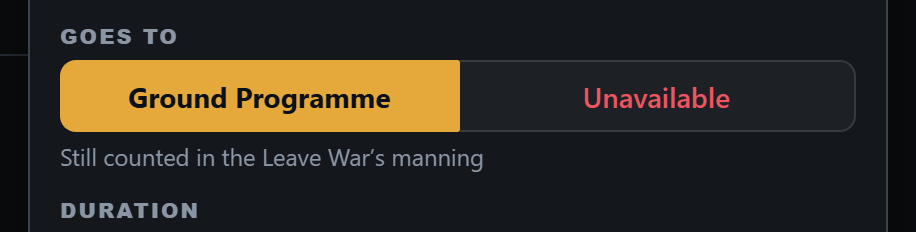
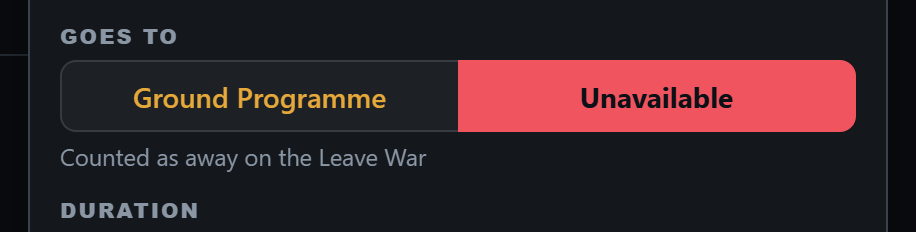
Handoff: the M3 FULL check done; his look next (the look page: Q1, Q4 with pictures); the sheet names the questions per D994 and the second read's fixes carried by tests; the file map

Changed region(s): [[0.0611, 0.2414, 0.9476, 0.5733], [0.0611, 0.6336, 0.5502, 0.7241]]

diff --git a/HANDOFF.md b/HANDOFF.md
@@ -21,18 +21,18 @@ the later merge keeps both (D78).
 
 ## Now
 <!-- now:claude/lw-m3-placing-leave -->
-### `claude/lw-m3-placing-leave` — the M3 build of 25 Oct 26 (UNA → Other, Attach, the decided buttons, the bubble at the foot, the joined bar, his D1377–D1380) and its FULL check, nearly done — written 25 Oct 26 late evening — verify before use
-- **Where it started:** his opening line of 25 Oct 26 15:30 — build "Unfinished" (1)–(5) of the block before, tests first, one FULL bug check; then his D1377 (an Attach keeps counting him out, not a rename) and D1378–D1380 (Attach first in the Leave War's ⋯, admin and member, on the Duration, its To left to the Inputs page). The chat compacted once (17:10); its early detail is in the commits.
-- **Shipped (on the branch, PR 569 open when written; 568 open too and goes first, D78):** all five items and [LW-ATTACH-BUTTON]; the FULL check's evidence sheet `raptor-port/docs/handpass/2026-10-25-lw-m3-build.md` (tier, sizing lines, the designer's gaps G1–G10 disposed, the walk's finds and dispositions, break tests); the designer `raptor-port/docs/handpass/parts/lw-m3-build/designer.md`; the walk W1 / W2 (`parts/lw-m3-build/w1.md`, `w2.md`, pictures `raptor-port/docs/img/handpass/2026-10-25-lw-m3-build/w1`, `w2`) and every fault it found fixed red-first (the joined bar and D1370's outline never painted — rules after `matrix.css`'s `#page-leavewar` wrapper, now named with the page, e2e "a leave over three days"; Show › reads the Manning rows; the bubble goes at a tap; the war names an Attach's To); break tests 25/25 (`raptor-port/scripts/handpass/breaks/2026-10-25-lw-m3-build.json`); the re-walk (`rewalk-w1`, `rewalk-read`); the fresh blind Opus read (`parts/lw-m3-build/read-opus.md`) F1–F8 and its narrow read (`read-fixes.md`) R1–R3 all fixed red-first (`raptor-port/src/leavewar/m3read.test.tsx`, `bidbubble.test.tsx`, `ui/latepub.test.tsx`) and the bubble's fixes re-walked. GitHub's full run green on `d3e944d`; the last pushes are records and pictures only.
-- **Unfinished, in order:** (1) THE READ'S Q2, A GAP OF THIS BUILD: a man on a course (under Unavailable by itself, D1372) — or any commitment moved "→ Unavail" — shows in Edit Schedule's crew list in full colour as free (it was faded "already tasked" by its Ground Programme row); an overseas duty and an Attach are struck (`raptor-port/src/engine/inputs.ts` `isAway`, line ~544). The agent's reading of D1372 ("so the schedule and the Leave War agree"): a commitment under Unavailable, not cancelled or information only, is away for its hours as an overseas duty is. Widen `isAway` red-first under the rules-engine doctrine; it also feeds the ALL AVAIL crowd (`raptor-port/src/leavewar/sync.ts:1182` — OIL, so FULL-tier care) and the crew list (`engine/avail.ts` 90/507/520/533/547/614/648, `ui/palette-html.ts` 27/33/91); `node reference/tfin.js` must stay 728/0; walk the crew list with pictures; tell him the reading. (2) The read's other questions Q1, Q3–Q11 (`read-opus.md` §Questions): Q1 (a rejected course still counts him out) goes to him with pictures; the rest the agent's — each fixed or written with its reason into the sheet. (3) The sheet's `Walk:` line, the ledger row in `raptor-port/docs/walk-ledger.md`, and `raptor-port/docs/ui-contracts.md` for F1 (the Ground panel files under Unavailable) and R1/F5 (the bubble lifts only on a phone). (4) The preview link and pictures for his look, with the questions [LW-TWO-BOX-LETTERS] and [SCHED-UNAV-PENDING-MARK] drawn (both filed in OUTSTANDING.md).
-- **Readings to tell him:** Redo raises no bubble; a timed commitment counts by the half it touches, an overnight one on its own day only; the war counts a published day's change at once; two next-door bids with the same words join (D1346); new words on screen: "Rejected by a scheduler", "Input filed under Unavailable", "This Attach: …".
+### `claude/lw-m3-placing-leave` — the M3 build of 25 Oct 26 and its FULL check, DONE; his look is next — written 26 Oct 26 — verify before use
+- **Where it started:** his opening line of 25 Oct 26 15:30 (the M3 build and its FULL check), carried on 25–26 Oct 26 by a second chat from this block's "Pick up here" (the code read's Q2, then the rest of the check).
+- **Shipped (on the branch, PR 569 open; 568 open too and goes first, D78):** the build — UNA → Other, every commitment under Unavailable counted out (D1357), a course and an Attach landing there by themselves (D1372, D1374), Attach from the war's ⋯ (D1378–D1380), the decided buttons, the bubble at the foot, the joined bar — and its FULL check, finished: the evidence sheet `raptor-port/docs/handpass/2026-10-25-lw-m3-build.md` (its closing section filled, the `Walk:` line), the ledger row, the code read's Q1–Q11 each disposed. This chat: Q2 (a man on a course under Unavailable drawn free in the crew list) fixed red-first and walked (`lw-m3b-rw-crew.mjs`, 7/7); its two narrow reads (`parts/lw-m3-build/read-q2fix.md`, `read-fixes2.md`) — R1–R3 and the leave-fill words fixed red-first; Q3, Q6, Q8, Q9, Q11 fixed red-first and walked (`lw-m3b-rw-qwar.mjs`, `lw-m3b-rw-qsched.mjs`); Q5, Q7 as ruled / as built; Q10 measured, no slower; break tests 27–29 caught 3/3.
+- **Unfinished, in order:** (1) his look — the look page https://claude.ai/artifact/1avzd2KtAQGrCmeUwSVrkH (Q1 and Q4, each with a recommendation and pictures; the preview link); (2) on his answers: record them (leave-war.md / inputs.md), build red-first, a short walk of what they touch; (3) his "merge live" — PR 568 first (D78), then this one's closing records, GitHub's run, the merge (D1088).
+- **Readings to tell him:** Redo raises no bubble; a timed commitment counts by the half it touches, an overnight one on its own day only; the war counts a published day's change at once; two next-door bids with the same words join (D1346); new words on screen: "Rejected by a scheduler", "Input filed under Unavailable", "This Attach: …"; the crew list's reason for a course reads "course (CSE) — …" (the absence wording), not "already on CSE 06:00–18:00".
 - **Branch:** `claude/lw-m3-placing-leave` (upstream `origin/claude/lw-m3-placing-leave`); released here (`git switch --detach`) once this block is pushed.
-- **Gates:** GitHub's run of the PR (the full check while the repo is public, D1086) green on `d3e944d`; on his PC the touched tests (43 files, 1,001 tests) and `npm run build` green after the last code change; the e2e Leave War files round2 / round3 green. `npm run probes:adapted` · `npm run perf` not run.
-- **Open questions for him:** none open now — the Leave War questions were put in D1301's order and all answered; Q1, [LW-TWO-BOX-LETTERS] and [SCHED-UNAV-PENDING-MARK] are to be drawn and put to him at his look.
-- **Running when written:** none (no helper, no served build, the lock free).
-- **Pick up here:** (1) above — the crew list's course, red-first, then the rest in order.
-- **Opening line:** Switch this chat to the branch claude/lw-m3-placing-leave: git fetch origin, git switch claude/lw-m3-placing-leave, git branch -u origin/claude/lw-m3-placing-leave, git pull --ff-only. If the switch is refused because another checkout holds the branch, release it there only if that checkout has no uncommitted changes and its HEAD equals git rev-parse origin/claude/lw-m3-placing-leave; then git -C <that folder> switch --detach and switch again; otherwise stop and tell me which folder holds it. Then read HANDOFF.md — the claude/lw-m3-placing-leave block under ## Now — and carry on from its "Pick up here", tests first, finishing the FULL bug check. Check Remote Control is on for this chat and switch it on if not.
-- **Notes:** ruling numbers to D1380; observations to 706. Traps: `store.ts` has Windows line endings; write scripts with the Write tool (a heredoc with an apostrophe fails); the walk helpers take their folder only from `LW_OUT` set before they load (obs 705); a push during a running check is refused by the guard.
+- **Gates:** GitHub's run of the pull request (the full check while the repo is public, D1086) green on `f63672ae2`; on `572d04fb1` (the second read's fixes) RUN. On his PC after the last code change: the touched folders (engine, screens, Leave War, state — 671 files, 11,779 tests) green, `npm run build` green, `node reference/tfin.js` 728/0, e2e `round2-leavewar.spec.ts` 10/10.
+- **Open questions for him:** Q1 (a rejected course: back in the war's count? recommended yes) and Q4 (a member's Goes to after a scheduler's move: only a scheduler then? recommended yes) — on the look page. `[LW-TWO-BOX-LETTERS]`, `[SCHED-UNAV-PENDING-MARK]` filed, named, not asked (D994).
+- **Running when written:** none (no helper; the local preview servers stopped; the lock free).
+- **Pick up here:** his answers to Q1 and Q4 on the look page — record, build red-first, walk; then his "merge live".
+- **Opening line:** Switch this chat to the branch claude/lw-m3-placing-leave: git fetch origin, git switch claude/lw-m3-placing-leave, git branch -u origin/claude/lw-m3-placing-leave, git pull --ff-only. If the switch is refused because another checkout holds the branch, release it there only if that checkout has no uncommitted changes and its HEAD equals git rev-parse origin/claude/lw-m3-placing-leave; then git -C <that folder> switch --detach and switch again; otherwise stop and tell me which folder holds it. Then read HANDOFF.md — the claude/lw-m3-placing-leave block under ## Now — and carry on from its "Pick up here". Check Remote Control is on for this chat and switch it on if not.
+- **Notes:** ruling numbers to D1380 (none new this chat); observations to 708. Traps: `store.ts` has Windows line endings; write scripts with the Write tool (a heredoc with an apostrophe fails; a backslash through a Python string becomes a control character — observation 668); the walk helpers take their folder only from `LW_OUT` set before they load (obs 705); a walk's judge reads a box's typed words from its value (obs 707); a push during a running check is refused by the guard; the D1301 order of his questions holds.
 <!-- /now -->
 <!-- now:claude/lw-phone-pinch-zoom -->
 ### `claude/lw-phone-pinch-zoom` — the Leave War's pinch to zoom ([LW-PHONE-PINCH-ZOOM]; D1282–D1285, D1228, D1276): built, walked, read; his iPhone look next — written 23 Oct 26, verify before use

diff --git a/raptor-port/docs/file-map.md b/raptor-port/docs/file-map.md
@@ -1,5 +1,5 @@
 # The file map — where each source file lives and what it does
-The M3 build of 25 Oct 26 evening on `claude/lw-m3-placing-leave` (D1355, D1356, D1357, D1358, D1360, D1361, D1364, D1365, D1369, D1372–D1375; [LW-NIGHT1025-OLDER] (a)). **New:** `src/leavewar/ui/litdecide.test.tsx` (the decided Approve / Refuse lit and named), `src/leavewar/ui/otherhalfwords.test.tsx` (a held bid's words on its own half only), `src/leavewar/otherunavail.test.tsx` (every commitment under Unavailable counted out, Attach, Goes to, the war's Other, the row CSE · OD · Grant OIL · ⋯), `docs/handpass/2026-10-25-lw-m3-build.md` (its FULL check). Then (D1377–D1380, [LW-ATTACH-BUTTON]): **New:** `scripts/handpass/lw-1025-attach-look.mjs` (an Attach filed through the Inputs page, pictured on the Leave War; the bid window’s ⋯ today and Attach drawn in it); the ⋯ of the bid window, the drag window and the closed day’s note (`ui/ClosedNoteSheet.tsx`) offer Attach first. The FULL check: **New:** `src/leavewar/m3read.test.tsx` (the code read’s F1–F4, F6–F8 and the narrow read’s R2), `src/engine/unavaway.test.ts` (the read’s Q2: a commitment under Unavailable is away in the crew list, a cancelled one silent), `src/ui/crewunav.test.ts` (its walk’s find: one with hours fades him as already tasked with nothing picked), `scripts/handpass/lw-m3b-rw-crew.mjs` (the walk of Q2’s fix: Edit Schedule’s and the board’s crew list, desktop and phone), `scripts/handpass/lw-m3b-rw-qwar.mjs` (the walk of Q6, Q8, Q11 on the Leave War), `scripts/handpass/lw-m3b-rw-qsched.mjs` (the walk of Q3 on the board and Q1’s pictures), `scripts/handpass/lw-m3b-w1-*.mjs`, `lw-m3b-w2-*.mjs` (the walkers’ scripts, their libs `-w1-lib`, `-w2-lib`), `lw-m3b-joincss.mjs`, `lw-m3b-showprobe.mjs`, `lw-m3b-rw-read.mjs` (the host’s probes and re-walk), `scripts/handpass/breaks/2026-10-25-lw-m3-build.json` (the break list). **Deleted:** `src/leavewar/una.test.ts` (UNA, the war's own record, went with D1356). **Changed:** `engine/inputs.ts` (`Attach`, `landsUnavail`, `filingOf`, `toOf`), `leavewar/absences.ts` (`warCounts`, `COMMIT_CODE`), `leavewar/engine/{codes,dayview,warrecs}.ts`, `leavewar/ui/LeaveButtons.tsx` (`GrantOilButton` in place of `UnaButton`), `ui/inputedit.tsx` (Goes to, To), `ui/html.ts accCtl`.
+The M3 build of 25 Oct 26 evening on `claude/lw-m3-placing-leave` (D1355, D1356, D1357, D1358, D1360, D1361, D1364, D1365, D1369, D1372–D1375; [LW-NIGHT1025-OLDER] (a)). **New:** `src/leavewar/ui/litdecide.test.tsx` (the decided Approve / Refuse lit and named), `src/leavewar/ui/otherhalfwords.test.tsx` (a held bid's words on its own half only), `src/leavewar/otherunavail.test.tsx` (every commitment under Unavailable counted out, Attach, Goes to, the war's Other, the row CSE · OD · Grant OIL · ⋯), `docs/handpass/2026-10-25-lw-m3-build.md` (its FULL check). Then (D1377–D1380, [LW-ATTACH-BUTTON]): **New:** `scripts/handpass/lw-1025-attach-look.mjs` (an Attach filed through the Inputs page, pictured on the Leave War; the bid window’s ⋯ today and Attach drawn in it); the ⋯ of the bid window, the drag window and the closed day’s note (`ui/ClosedNoteSheet.tsx`) offer Attach first. The FULL check: **New:** `src/leavewar/m3read.test.tsx` (the code read’s F1–F4, F6–F8 and the narrow read’s R2), `src/engine/unavaway.test.ts` (the read’s Q2: a commitment under Unavailable is away in the crew list, a cancelled one silent), `src/ui/crewunav.test.ts` (its walk’s find: one with hours fades him as already tasked with nothing picked), `scripts/handpass/lw-m3b-rw-crew.mjs` (the walk of Q2’s fix: Edit Schedule’s and the board’s crew list, desktop and phone), `scripts/handpass/lw-m3b-rw-qwar.mjs` (the walk of Q6, Q8, Q11 on the Leave War), `scripts/handpass/lw-m3b-rw-qsched.mjs` (the walk of Q3 on the board and Q1’s pictures), `scripts/handpass/lw-m3b-look.mjs` (the pictures for his look: Q1 and Q4, cut to their places), `scripts/handpass/lw-m3b-w1-*.mjs`, `lw-m3b-w2-*.mjs` (the walkers’ scripts, their libs `-w1-lib`, `-w2-lib`), `lw-m3b-joincss.mjs`, `lw-m3b-showprobe.mjs`, `lw-m3b-rw-read.mjs` (the host’s probes and re-walk), `scripts/handpass/breaks/2026-10-25-lw-m3-build.json` (the break list). **Deleted:** `src/leavewar/una.test.ts` (UNA, the war's own record, went with D1356). **Changed:** `engine/inputs.ts` (`Attach`, `landsUnavail`, `filingOf`, `toOf`), `leavewar/absences.ts` (`warCounts`, `COMMIT_CODE`), `leavewar/engine/{codes,dayview,warrecs}.ts`, `leavewar/ui/LeaveButtons.tsx` (`GrantOilButton` in place of `UnaButton`), `ui/inputedit.tsx` (Goes to, To), `ui/html.ts accCtl`.
 His recordings of 25 Oct 26 11:49 and 11:54 (the input window dipping as the keys came up, the day panel behind it showing). **New:** `scripts/handpass/kbs-slide-walk.mjs` (his measured keyboard slides played frame by frame on five windows, up and down, each frame's place recorded and his screen drawn, every frame stamped on the compositor's clock), `scripts/handpass/kbs-slide-look.mjs` (the look card's before-and-after picture). **Changed:** `src/ui/kbscroll.ts` (`SLIDE_UP`, `SLIDE_DOWN` — his phone's measured curves, lengths and leads — and `eased` replace the glide's own curve; every glide timed from when the phone began its slide; a fresh glide stands where the slide puts it; the readout logs `focusout`), `src/ui/kbscroll.test.ts` (the measured slides pinned), `e2e/kbscroll.spec.ts` (KS3j, KS3k; KS3i on his measured slides).
 His recording of 25 Oct 26 11:09 (the Tracker's All events twitching as the keys open and close). **Changed:** `src/ui/kbscroll.ts` (a window moved, held or put back for the keys glides with the phone's slide — `glide`, `GLIDES`, `settleGlides`, `gliding`; the slide met at the phone's word — `compensate`, `windowIn`), `e2e/kbscroll.spec.ts` (KS3i).
 His ?kbdebug recordings of 25 Oct 26 10:10, 10:18 and 10:30 (a box tapped in a window on his iPhone — the Inputs and SANS calendars' input window, the Tracker's All events — the form pushed down inside the window, the box under the keys). **New:** `scripts/handpass/kbs-his-measure.mjs` (his four cases with Chromium measuring as his phone does once it has panned — every box from the visible top, the layout's height less the pan — and pictures of what his screen shows). **Changed:** `src/ui/kbscroll.ts` (`screenBox` — the visible screen in the measure the boxes are given in, read off a fixed mark at the layout's top and foot; `keyboardUp` and the keys-down test read the full height from it too; a backdrop only a layer exactly on the layout; a window the pan left above the screen and too tall for the room held as well as brought down; the readout's `L`), `src/ui/kbscroll.test.ts` (three cases), `e2e/kbscroll.spec.ts` (KS3g, KS3h); the same measure in `src/leavewar/ui/Sheet.tsx` (the keyboard test, the bar's foot, the drag clamp), `src/leavewar/ui/BalanceBar.tsx`, `src/leavewar/ui/Matrix.tsx` (`manningInView`), `src/ui/board.ts` (the duty role's pick-list), `src/ui/histbubble.ts`, `src/ui/InputsCal.tsx` and `src/ui/SansCal.tsx` (the month's fit).

diff --git a/raptor-port/docs/handpass/2026-10-25-lw-m3-build.md b/raptor-port/docs/handpass/2026-10-25-lw-m3-build.md
@@ -184,13 +184,19 @@ re-walked (`rewalk-read`). Its eleven questions, each disposed:
 the changes window's line for a course added from the Unavailable "+ Add" (unchanged by Q3: the same save as before).
 
 **Gates:** GitHub's run of the pull request (the full check while the repo is public, D1086) green on `d3e944d` and
-`f454b59`; on `f63672ae2` GATE. On his PC: the touched folders (engine, screens, Leave War, state — 671 files, 11,779
+`f454b59`; on `f63672ae2` green; on `572d04fb1` RUN. On his PC: the touched folders (engine, screens, Leave War, state — 671 files, 11,779
 tests) green after the second read's fixes; `npm run build` green; `node reference/tfin.js` 728/0; the e2e Leave War file
 `round2-leavewar.spec.ts` 10/10. `npm run probes:adapted` · `npm run perf` not run (the Leave War is not in `perf`; Q10
 measured it instead).
 
-**Questions waiting for him** (at his look, each with pictures): Q1 (a rejected course and the war), Q4 (a member's
-Goes to after a scheduler's move), `[LW-TWO-BOX-LETTERS]` (FO\* beside TRG clips letters), `[SCHED-UNAV-PENDING-MARK]`
-(an Unavailable row of a published day wears no pending mark).
+**Questions waiting for him** (put to him with pictures on the look page — `scripts/handpass/lw-m3b-look.mjs`, pictures
+`docs/img/handpass/2026-10-25-lw-m3-build/look/`): Q1 (a rejected course and the war — recommended: it counts him in again)
+and Q4 (a member's Goes to after a scheduler's move — recommended: only a scheduler changes it then). The two filed backlog
+questions `[LW-TWO-BOX-LETTERS]` and `[SCHED-UNAV-PENDING-MARK]` are named to him as filed, not asked (D994).
+
+**The second read's two fixes, re-walked?** Carried by tests (§7.0): R3 in `unavaway.test.ts` (the picker's own reading of a
+line with no times — a seat on such a line is the same crew list walked in `rewalk-crew`), the leave fill in
+`dragremarks.test.tsx` through the drag window's own buttons (LL pressed, the approve switch turned off) — the window and the
+fill path are the ones walked in `rewalk-q` Q6 / Q11.
 
 Walk: docs/handpass/2026-10-25-lw-m3-build.md · 606 pictures · 17 surfaces · 57 orders · MISSING: 0 open — every find fixed, ruled or filed; 4 questions for him
